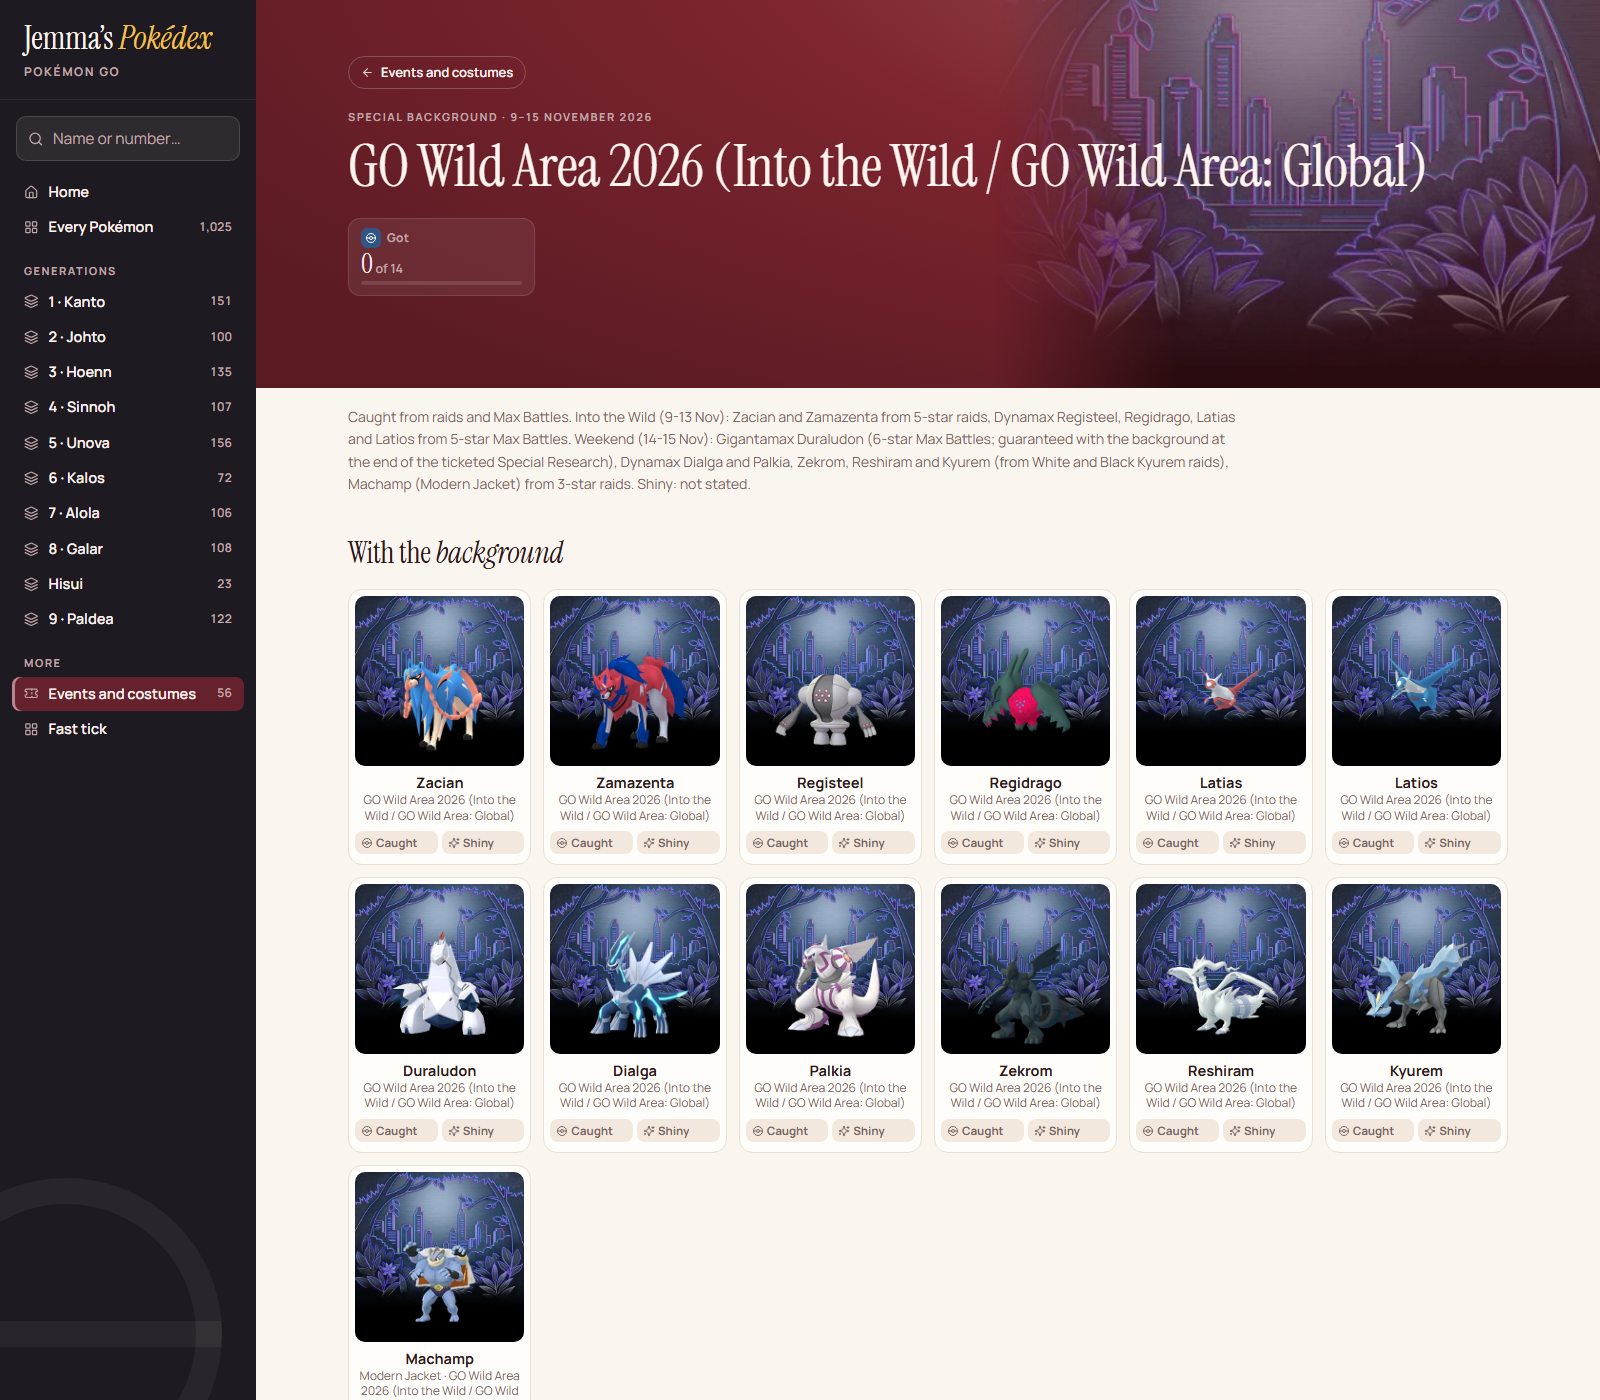
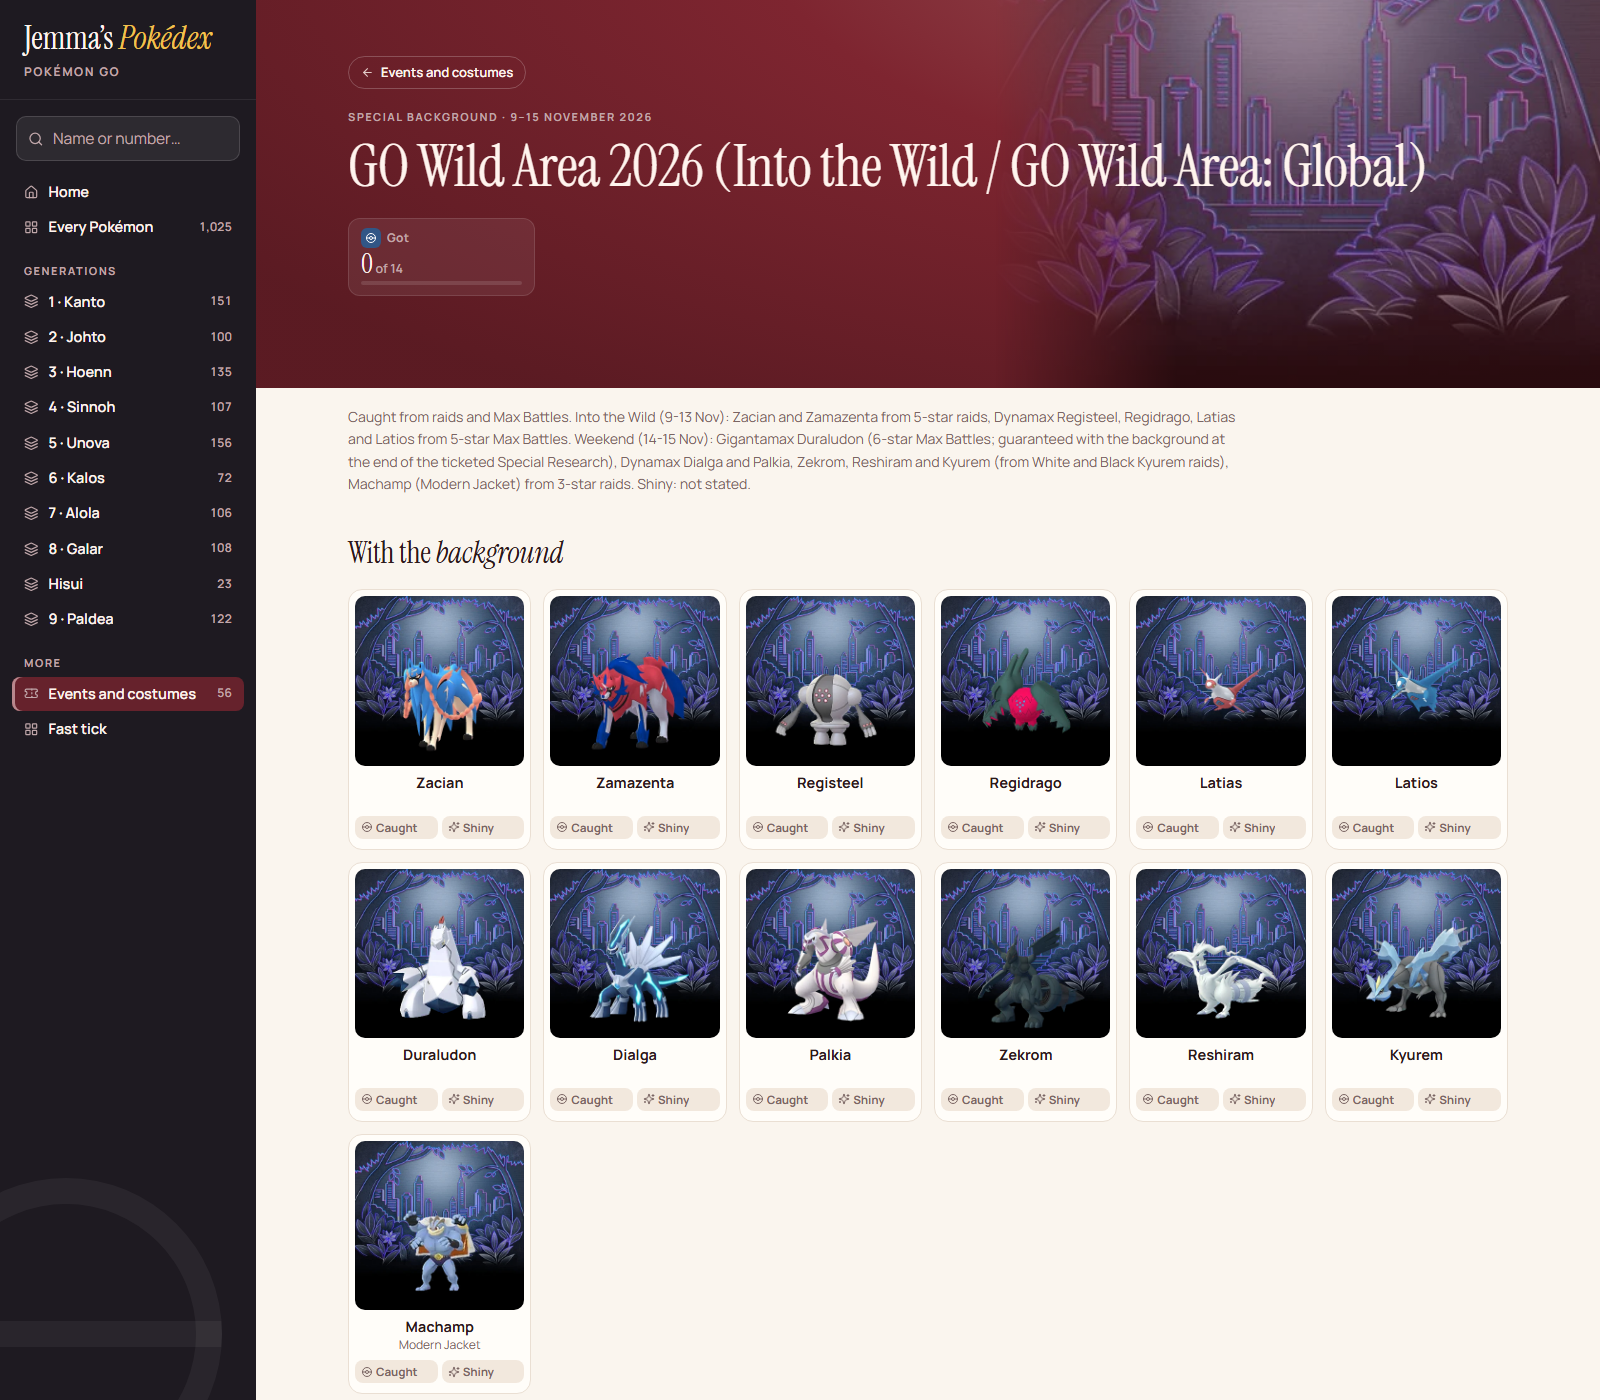
An event's own page doesn't repeat its name under every card

Changed region(s): [[0.2188, 0.5529, 0.9375, 1.0]]

diff --git a/site/js/app.js b/site/js/app.js
@@ -553,13 +553,13 @@ const BGS = new Set(DATA.backgrounds || []);   // site/backgrounds/<event id>.we
 const SPECIAL = DATA.special || [];   // special backgrounds: ticked “I took part”, like “I went” for the in-person ones (her call, 10 Nov)
 const isSpecial = ev => ev.id.startsWith("sb-");
 const bgKey = (ev, e) => `b:${ev.id}:${e.id}`;
-function bgCard(ev, e, wentButton){
+function bgCard(ev, e, wentButton, showEvent = true){   // showEvent false on the event's own page (the name is in the banner)
   const went = COL.went.includes(ev.id), key = bgKey(ev, e);
   const src = bigSprite(has(key, "s") && sprite(e.img + ".s") ? e.img + ".s" : e.img);
   const bg = BGS.has(ev.id) ? `backgrounds/${ev.id}.webp` : null;
   return `<div class="card bgcard${went ? "" : " not-went"}" data-bg="${attr(key)}" data-event="${attr(ev.id)}" data-bgdex="${e.dex}">` +
     `<div class="bgpic${bg ? "" : " nobg"}"${bg ? ` style="background-image:url('${bg}')"` : ""}>${bg ? "" : `<span class="nobg-note">No picture in the game files yet</span>`}${src ? `<img src="${src}" alt="" loading="lazy">` : ""}</div>` +
-    `<a class="nm" href="#p-${e.dex}">${esc(e.name)}</a><small class="fm">${e.costume || e.form ? esc(e.costume || e.form) + " · " : ""}${esc(ev.background || ev.name)}</small>` +
+    `<a class="nm" href="#p-${e.dex}">${esc(e.name)}</a><small class="fm">${[e.costume || e.form, showEvent ? ev.background || ev.name : ""].filter(Boolean).map(esc).join(" · ")}</small>` +
     (went ? `<div class="boxgrid"><button class="tk c" type="button" data-tick="c" aria-pressed="${has(key, "c")}" title="Have it with this background">${ic("poke-ball")}<span>Caught</span></button>` +
       `<button class="tk s" type="button" data-tick="s" aria-pressed="${has(key, "s")}" title="${e.shiny ? "Shiny with this background" : "No shiny in GO yet"}"${!e.shiny && !has(key, "s") ? " disabled" : ""}>${ic("sparkles")}<span>Shiny</span></button></div>`
       : wentButton ? `<button class="chip collect" type="button" data-went aria-pressed="false">I went</button>` : "") + `</div>`;
@@ -672,7 +672,7 @@ function setPage(id){
     <span class="label">${esc(st.meta)}</span><h1>${esc(st.title)}</h1>
     <div class="stats">${statTile("--caught", "poke-ball", "Got", got, st.items.length)}</div></header>${readOnlyNote()}
     ${st.ev && st.ev.note ? `<p class="muted setnote">${esc(st.ev.note)}</p>` : ""}
-    ${bgs.length ? `<section class="section"><h2>With the <em>background</em></h2><div class="grid bggrid">${bgs.map(e => bgCard(st.ev, e, false)).join("")}</div></section>` : ""}
+    ${bgs.length ? `<section class="section"><h2>With the <em>background</em></h2><div class="grid bggrid">${bgs.map(e => bgCard(st.ev, e, false, false)).join("")}</div></section>` : ""}
     ${cos.length ? `<section class="section"><h2>${st.ev ? "Its <em>costumes</em>" : "The <em>costumes</em>"}</h2><div class="grid">${cos.map(costumeCard).join("")}</div></section>` : ""}`;
 }
 

diff --git a/site/index.html b/site/index.html
@@ -24,6 +24,6 @@
 
 <script src="js/icons.js?v=8b203804"></script>
 <script src="js/data.js?v=830a9331"></script>
-<script src="js/app.js?v=c0748921"></script>
+<script src="js/app.js?v=cf0d46b3"></script>
 </body>
 </html>
